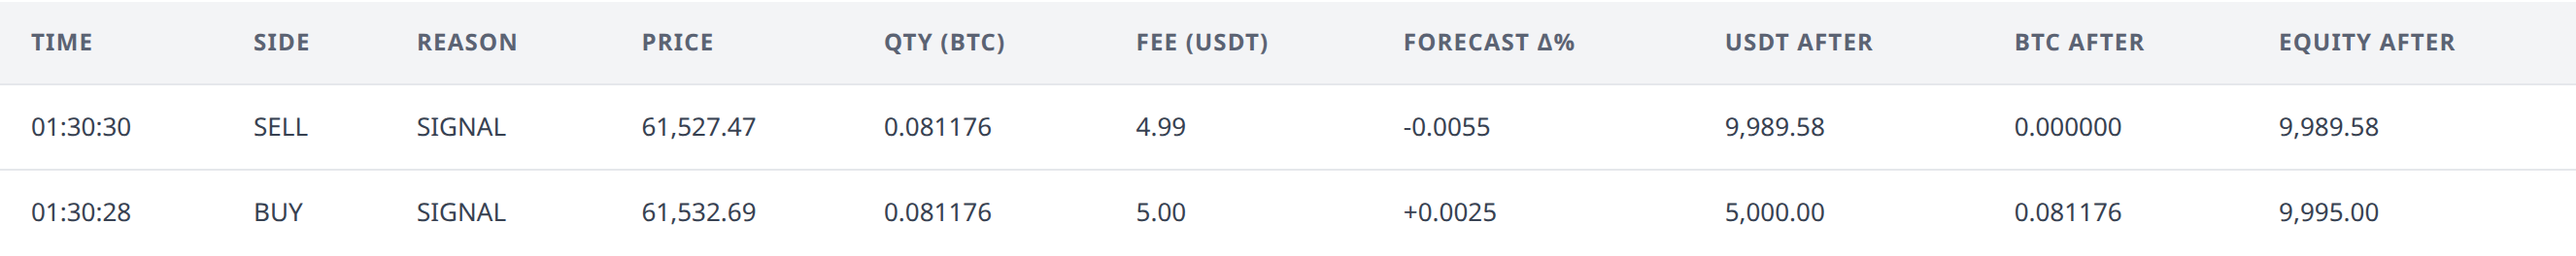
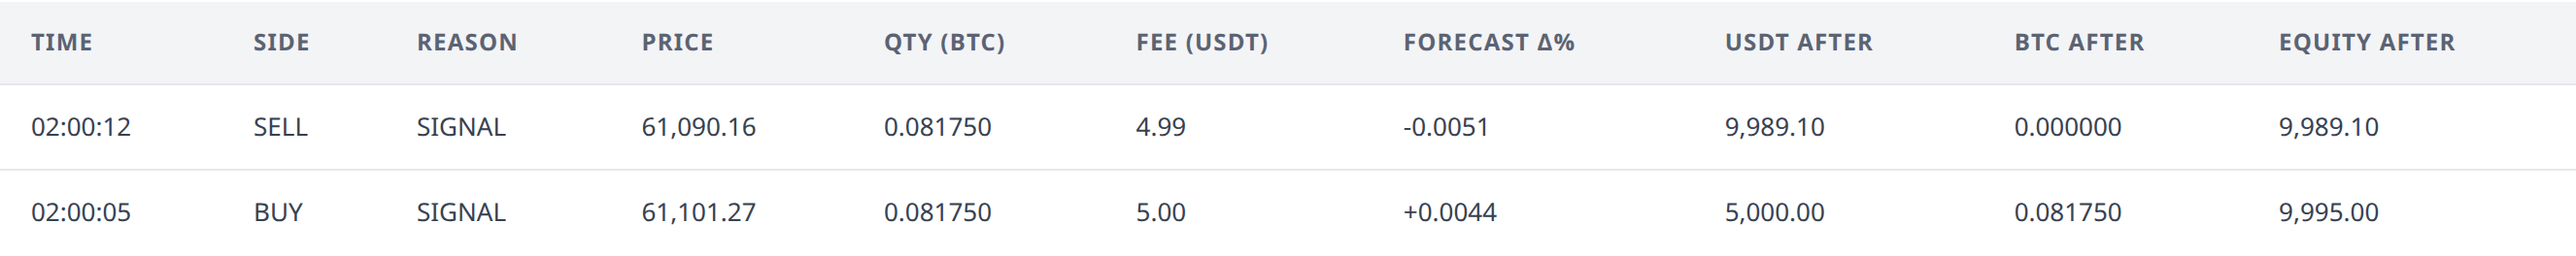
lstm-trading-bot: retake screenshots with adaptive threshold

diff --git a/lstm-trading-bot/README.md b/lstm-trading-bot/README.md
@@ -21,6 +21,18 @@ SELL  if changePct <  -threshold  and BTC * sell% * price >= 10 USDT
 HOLD  otherwise
 ```
 
+**Adaptive threshold (default).** On 1-second candles the forecast change is tiny: over a 150 s measurement `|changePct|` had p50 0.0010%, p75 0.0018%, p90 0.0038%, p95 0.0046% and a maximum of 0.0068%, so a fixed 0.01% never fires and no single fixed value holds a steady trade rate while volatility drifts. In *adaptive* mode the threshold is a rolling percentile of recent `|changePct|` values, chosen so that about `target` candles per minute exceed it:
+
+```
+candlesPerMinute = 60000 / intervalMs               // 1s -> 60, 1m -> 1
+quantile         = 1 - targetSignalsPerMin / candlesPerMinute
+quantile <= 0    -> threshold = 0                   // every candle may signal (BUY/SELL stay strict: > +t, < -t)
+otherwise        -> threshold = quantile of the last <= 60 |changePct| values
+                    (sorted ascending, index = floor(quantile * n), clamped to n - 1)
+```
+
+The threshold is computed from the window *before* the current candle's `|changePct|` is added. Warm-up: with fewer than 20 samples the fixed threshold applies (the live readout says "warming up n/20, using fixed"). Changing the timeframe clears the window, and Reset clears it too. In *fixed* mode the window is ignored. A signal is still only a trade when the wallet allows it (a SELL signal while holding no BTC is a HOLD), so trades per minute can be lower than signals per minute.
+
 Orders execute at the latest closed candle price. BUY spends a percentage of free USDT, SELL sells a percentage of held BTC. The 10 USDT minimum order prevents dust orders after repeated 50% buys. A candle is evaluated once (keyed by its open time), even though `tick()` runs every second.
 
 **Chosen parameters (all shipped defaults; threshold and sizing are editable in the UI):**
@@ -32,7 +44,10 @@ Orders execute at the latest closed candle price. BUY spends a percentage of fre
 | WINDOW / HORIZON | 20 candles / 20 steps | Past closed candles fed to the LSTM / future steps projected (the trade signal uses step 1) |
 | EPOCHS_PER_CANDLE / LR | 30 epochs / 0.005 | BPTT passes and learning rate run on every new closed candle |
 | Initial dummy balance | 10,000.00 USDT, 0 BTC | Starting virtual capital |
-| Signal threshold | 0.01% (the test run that produced the screenshots used **0.002%**) | Minimum predicted move to trigger an order |
+| Threshold mode | adaptive | Percentile of recent `|changePct|` instead of a fixed value |
+| Target signals/min | 3 | Sets the quantile: `1 - 3 / candlesPerMinute` (0.95 on 1s candles) |
+| Adaptive window / warm-up | 60 candles / 20 samples | Rolling window size; below 20 samples the fixed threshold is used |
+| Fixed threshold | 0.01% | Used in fixed mode and as the warm-up fallback |
 | Trade size | BUY 50% of free USDT, SELL 100% of held BTC | Fixed-percentage order sizing |
 | Fee | 0.1% per order | Simulated taker fee, charged on every BUY and SELL |
 | Stop-loss / Take-profit | 0.5% / 0.5% from the average entry price (0 = off) | Risk exits checked each closed candle before the LSTM signal |
@@ -57,7 +72,7 @@ Unit tests (Node 22+, no dependencies to install):
 npm test
 ```
 
-This runs `node --test tests/*.test.js` (37 tests covering the wallet, signal/threshold logic, fees, risk exits, MAPE gate, input validation, persistence and CSV export).
+This runs `node --test tests/*.test.js` (54 tests covering the wallet, signal and adaptive-threshold logic, fees, risk exits, MAPE gate, input validation, persistence and CSV export).
 
 ## Test Results & Screenshots
 
@@ -77,22 +92,24 @@ The screenshots were produced by an automated headless Chromium run (fresh brows
 
 Initial state: ![Initial state](screenshots/0_Initial.png)
 
-**Setup.** Attempt A used the shipped defaults on the **1m** timeframe (threshold 0.01%, buy 50%, sell 100%, fee 0.1%, SL 0.5%, TP 0.5%, MAPE gate off). It ran for the full 15-minute cap and produced **no trade at all**: over about 15 closed candles the forecast never moved more than 0.01% from the last close. Attempt B, which produced the screenshots, used the **1s** timeframe, 300 candles, window 20, and a lowered **threshold of 0.002%**; every other setting was the default. The bot was started at 01:29:49 (UTC); the first BUY filled on the 01:30:28 candle, about 40 seconds later, and the SELL two seconds after that. The unrolled graph in screenshot 3 was captured about 65 seconds after page load, once the layout had settled.
+**Setup.** The run used the shipped defaults with no override: **adaptive** threshold mode, target **3 signals/min**, fixed fallback 0.01%, the **1s** timeframe, 300 candles, window 20, buy 50%, sell 100%, fee 0.1%, SL 0.5%, TP 0.5%, MAPE gate off. The bot was started at 01:56:25 (UTC) and the screenshots were taken at about 02:00:16, after 3 min 51 s of running; the first BUY filled on the 02:00:05 candle and the SELL seven seconds later. The unrolled graph in screenshot 3 was captured well after page load, once the layout had settled. The readout in screenshot 1 reads "Threshold: 0.0051% (adaptive, p95 of last 60)": the 60-sample window was full and the 95th percentile of the last 60 forecast changes was 0.0051%.
 
-**Trades (attempt B, newest first; time = candle close, UTC):**
+**Trade rate.** This run produced **2 trades in about 3.85 minutes (about 0.5 trades/min)**. Other 3-minute runs at the same defaults gave 0 trades, then 6 trades (1, 4 and 1 per minute, 2.0/min on average). The adaptive rule targets signals (3/min), not trades: a signal is only a trade when the wallet allows it (a SELL signal while holding no BTC is a HOLD), and the measured signal rate was about 2/min rather than 3 because the forecast change is autocorrelated and its scale drifts, so the trailing percentile is only a rough estimate. The rate therefore varies a lot between runs.
+
+**Trades (newest first; time = candle close, UTC):**
 
 | Time | Side | Reason | Price | Qty (BTC) | Fee (USDT) | Forecast Δ% | USDT after | BTC after | Equity after |
 |---|---|---|---|---|---|---|---|---|---|
-| 01:30:30 | SELL | SIGNAL | 61,527.47 | 0.081176 | 4.99 | -0.0055 | 9,989.58 | 0.000000 | 9,989.58 |
-| 01:30:28 | BUY | SIGNAL | 61,532.69 | 0.081176 | 5.00 | +0.0025 | 5,000.00 | 0.081176 | 9,995.00 |
+| 02:00:12 | SELL | SIGNAL | 61,090.16 | 0.081750 | 4.99 | -0.0051 | 9,989.10 | 0.000000 | 9,989.10 |
+| 02:00:05 | BUY | SIGNAL | 61,101.27 | 0.081750 | 5.00 | +0.0044 | 5,000.00 | 0.081750 | 9,995.00 |
 
-**Final readouts (as in the screenshots).** Status Running, USDT 9,989.58, BTC 0.000000, position CASH, equity **9,989.58**, PnL **-10.42 USDT (-0.1042%)**, last signal HOLD (+0.0004%). Fees paid: 5.00 + 4.99 = **9.99 USDT**. The buy-and-hold benchmark stood at 9,985.59 USDT (**-14.41 USDT, -0.1441%**), so the bot was ahead of buy-and-hold by about 4.00 USDT. Over 65 predicted candles the LSTM MAPE was **0.008%** against **0.005%** for the repeat-last-close baseline.
+**Final readouts (as in the screenshots).** Status Running, USDT 9,989.10, BTC 0.000000, position CASH, equity **9,989.10**, PnL **-10.90 USDT (-0.1090%)**, last signal HOLD (-0.0069%), threshold 0.0051% (adaptive, p95 of last 60). Fees paid: 5.00 + 4.99 = **9.99 USDT**. The buy-and-hold benchmark stood at 9,976.99 USDT (**-23.01 USDT, -0.2301%**), so the bot was ahead of buy-and-hold by about 12.11 USDT. Over 222 predicted candles the LSTM MAPE was **0.006%** against **0.004%** for the repeat-last-close baseline. Last close 61,071.22 USDT.
 
 **Analysis.**
-- The bot is mechanically correct: the BUY spent 50% of the free USDT (5,000.00) and paid a 0.1% fee on it (5.00), and the SELL emptied the BTC holding exactly to 0 and paid a 0.1% fee on the proceeds (4.99). Equity after the BUY is 9,995.00 (the entry fee), and after the SELL 9,990.00.
-- The SELL filled 5.22 USDT per BTC below the BUY (61,532.69 to 61,527.47), costing 0.42 USDT on 0.081176 BTC. Together with the two fees (9.99 USDT) this explains the whole loss of 10.42 USDT. The trades were triggered by forecast deltas of +0.0025% and -0.0055%, far below the 0.2% cost of a round trip at a 0.1% fee, so a threshold this low is only useful to demonstrate the mechanics.
-- The equity chart shows the bot line flat at 0 until the BUY, because an all-cash wallet has constant equity, then dropping by the entry fee and the exit loss. The bot beat buy-and-hold only because it sat in cash while BTC drifted down during the run; this is the direction of the market, not evidence of skill. A single two-trade run is not statistical evidence either way.
-- **Honest assessment of the model.** The LSTM is a single cell with 14 trainable parameters, trained online for 30 epochs on a few hundred 1-second or 1-minute returns. Its MAPE (0.008%) is *worse* than the trivial "next price = last close" baseline (0.005%), and the same pattern appeared in every other accuracy check taken during development (for example 0.011% vs 0.008%, 0.007% vs 0.004%, 0.004% vs 0.003%). At these horizons price changes are close to a random walk, so a forecast that does not beat the naive baseline carries no exploitable information; the 20-step forecast curve at the right of the price chart (a rise to 61,559.62) is an extrapolation of recent noise, and the BUY/SELL signals are essentially noise crossing a very low threshold. With the shipped 0.01% threshold the bot simply stayed in HOLD on the 1m run (attempt A), which is the more sensible behavior. Enabling the **MAPE gate** would have kept the bot out of the market in this run, because the LSTM did not beat the baseline. This is an educational demo, not a trading signal.
+- The bot is mechanically correct: the BUY spent 50% of the free USDT (5,000.00) and paid a 0.1% fee on it (5.00), and the SELL emptied the BTC holding exactly to 0 and paid a 0.1% fee on the proceeds (4.99). Equity after the BUY is 9,995.00 (the entry fee), and after the SELL 9,989.10.
+- The SELL filled 11.11 USDT per BTC below the BUY (61,101.27 to 61,090.16), costing 0.91 USDT on 0.081750 BTC. Together with the two fees (9.99 USDT) this explains the whole loss of 10.90 USDT. The trades were triggered by forecast deltas of +0.0044% and -0.0051%, far below the 0.2% cost of a round trip at a 0.1% fee: the adaptive threshold controls how often the bot trades, not whether a trade is profitable, and at this scale every round trip loses to fees unless the price happens to move by more than about 0.2%.
+- The equity chart shows the bot line flat at 0 until the BUY, because an all-cash wallet has constant equity, then dropping by the entry fee and the exit loss. The bot beat buy-and-hold only because it sat in cash while BTC drifted down during the run (the price fell throughout the chart window); this is the direction of the market, not evidence of skill. A single two-trade run is not statistical evidence either way.
+- **Honest assessment of the model.** The LSTM is a single cell with 14 trainable parameters, trained online for 30 epochs on a few hundred 1-second or 1-minute returns. Its MAPE (0.006%) is *worse* than the trivial "next price = last close" baseline (0.004%), and the same pattern appeared in every other accuracy check taken during development (for example 0.011% vs 0.008%, 0.007% vs 0.004%, 0.004% vs 0.003%). At these horizons price changes are close to a random walk, so a forecast that does not beat the naive baseline carries no exploitable information; the 20-step forecast curve at the right of the price chart (a fall to 60,978.21) is an extrapolation of recent noise, and the BUY/SELL signals are essentially noise crossing a threshold that is by construction exceeded by about the top 5% of recent forecasts. A fixed 0.01% threshold would have kept the bot in HOLD (see the change list below), which would have avoided fees but also produced no trades to evaluate. Enabling the **MAPE gate** would have kept the bot out of the market in this run, because the LSTM did not beat the baseline. This is an educational demo, not a trading signal.
 
 ## Changes from the Provided Source Code & Why
 
@@ -119,7 +136,7 @@ The five reference files (`index.html`, `app.js`, `tiny-lstm.js`, `unroll-graph.
    * **Why**: Reuses the reference `trainAndForecast()` pipeline as the lab requires instead of duplicating it, with minimal edits to a reference file.
 
 6. **`package.json`, `tests/*.test.js`, `.gitignore` (new): verification**
-   * **Change**: `npm test` runs the Node test runner over 37 tests (wallet, bot, storage, CSV); `.gitignore` excludes `node_modules/`.
+   * **Change**: `npm test` runs the Node test runner over 54 tests (wallet, bot, storage, CSV); `.gitignore` excludes `node_modules/`.
    * **Why**: Proves the wallet and signal rules (dust, invalid input, duplicate candles, exact-zero sell, corrupt storage) without a browser.
 
 ### Innovations (beyond the lab requirements)
@@ -153,3 +170,9 @@ The five reference files (`index.html`, `app.js`, `tiny-lstm.js`, `unroll-graph.
 13. **`bot-ui.js` / `index.html` (fix): "No trades yet" message**
     * **Change**: A message below the trade table is shown while the trade list is empty and hidden after the first trade (set with `hidden`, no HTML injection).
     * **Why**: With no trades the wallet is all cash, so equity is constant and the equity chart is a flat 0 line; the message explains that this is expected until the forecast change crosses the threshold.
+
+### Adaptive threshold
+
+14. **`trading-bot.js`, `storage.js`, `bot-ui.js`, `index.html`, `app.js` (change): adaptive percentile threshold**
+    * **Change**: A new default threshold mode that sets the threshold to a rolling percentile of the last 60 `|changePct|` values so that about 3 candles per minute exceed it (quantile `1 - target / candlesPerMinute`), with a 20-sample warm-up that falls back to the fixed threshold. The window is cleared on a timeframe change and on Reset and is persisted. The panel gains a mode selector, a "Target signals/min" input, the renamed "Fixed threshold (%)" input and a live "Threshold: ..." readout. `app.js` passes `intervalMs` to the bot (one line).
+    * **Why**: Measured over 150 s on 1s candles, `|changePct|` had p50 0.0010%, p75 0.0018%, p90 0.0038%, p95 0.0046% and a maximum of 0.0068%, so the fixed default of 0.01% never fires and the earlier test run needed a hand-lowered threshold. No single fixed value holds a steady rate because the volatility drifts; a rolling percentile follows it.
